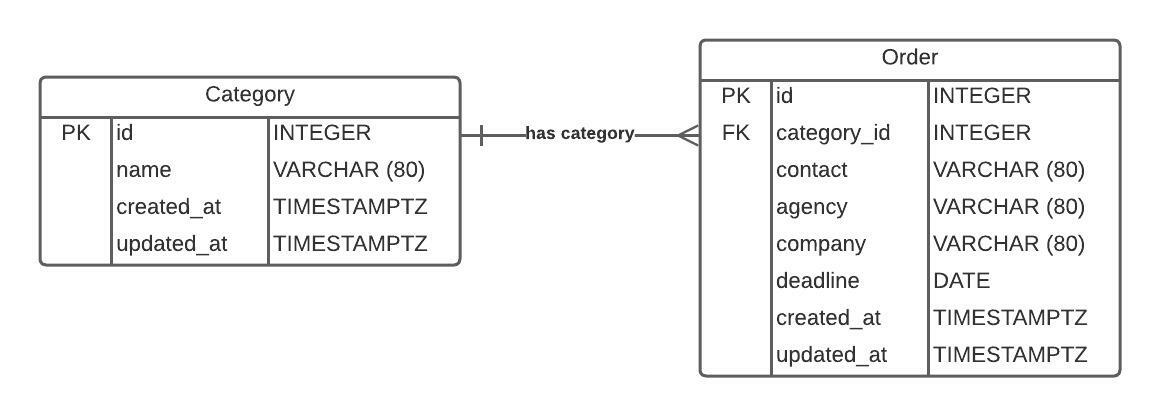
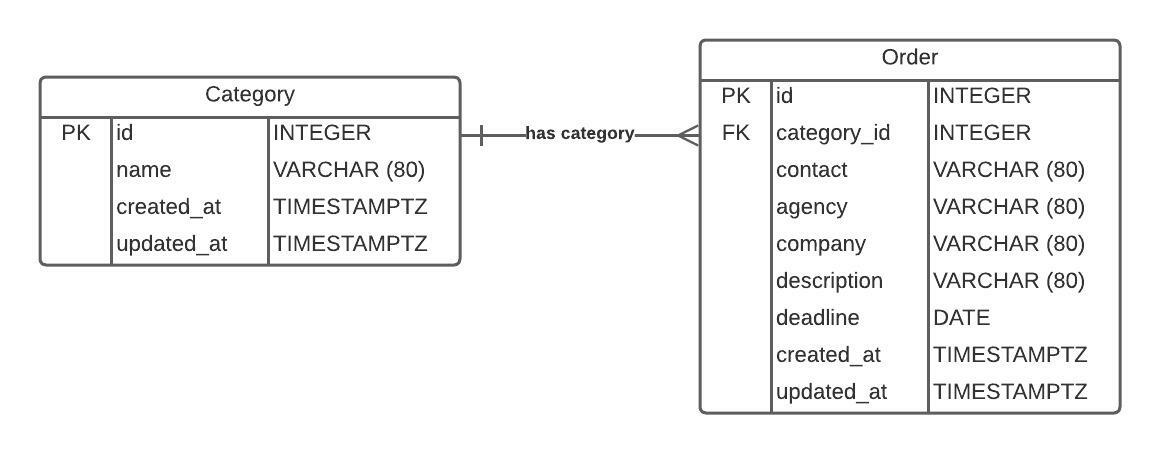
feat(docs): finish readme

Changed region(s): [[0.031, 0.0625, 0.9621, 0.9375], [0.6517, 0.75, 0.7759, 0.8125]]

diff --git a/README.md b/README.md
@@ -29,6 +29,7 @@ NPM Version: `17.18.1`
   - [Frontend](#frontend-2)
 - [Considerações em Relação ao Projeto](#considerações-em-relação-ao-projeto)
 - [Como eu faria para adicionar autenticação ao projeto?](#como-eu-faria-para-adicionar-autenticação-ao-projeto)
+- [Lidando com Armazenamento de Outras Informações no Backend](#lidando-com-armazenamento-de-outras-informações-no-backend)
 
 ## Sobre o projeto
 
@@ -232,7 +233,7 @@ Primeiramente, em `backend/settings`, settar `DEBUG` para `false`, além de muda
 
 ### Frontend
 
-Esse projeto foi criado com a ferramenta Vite. Caso queira saber porque eu e alguns outros devs escolhem o Vite ao invés do create-react-app ou webpack+babel configurados manualmente, apesar de já ter usado todas essas, recomendo essa [leitura](https://semaphoreci.com/blog/vite#:~:text=Unlike%20CRA%2C%20Vite%20does%20not,improve%20development%20and%20build%20time.). Utilizei o template desse (link)[https://github.com/igdev116/vite-react-ts-eslint-prettier.git], que cria um projeto pré configurado com Vite + React + TypeScript + Eslint + Prettier. Primeiramente precisamos buildar a aplicação react, que vai transpilar o typescript em javascript e depois tudo em um "javascript puro", empacotando numa pasta build. Essa pasta build deve ser levada (deploy) para o ambiente de produção, seja qual for, e executada por alguma ferramenta, como um nginx. Vale ressaltar que o Vite carrega variáveis de ambiente de arquivos com nomes relacionados a ambientes de desenvolvimento e produção automaticamente, dependendo da forma que a aplicação é executada. No momento, estou puxando o endereço base da API do arquivo `.env.development` na pasta `frontend/config`. Um arquivo de produção `.env.production` pode ser criado, com a variável `VITE_BACKEND_BASE_URL` apontando para o endereço host do backend em produção. Todas as variáveis de ambiente devem começar com `VITE_`.
+Esse projeto foi criado com a ferramenta Vite. Caso queira saber porque eu e alguns outros devs escolhem o Vite ao invés do create-react-app ou webpack+babel configurados manualmente, apesar de já ter usado todas essas, recomendo essa [leitura](https://semaphoreci.com/blog/vite#:~:text=Unlike%20CRA%2C%20Vite%20does%20not,improve%20development%20and%20build%20time.). Utilizei o template desse [link](https://github.com/igdev116/vite-react-ts-eslint-prettier.git), que cria um projeto pré configurado com Vite + React + TypeScript + Eslint + Prettier. Primeiramente precisamos buildar a aplicação react, que vai transpilar o typescript em javascript e depois tudo em um "javascript puro", empacotando numa pasta build. Essa pasta build deve ser levada (deploy) para o ambiente de produção, seja qual for, e executada por alguma ferramenta, como um nginx. Vale ressaltar que o Vite carrega variáveis de ambiente de arquivos com nomes relacionados a ambientes de desenvolvimento e produção automaticamente, dependendo da forma que a aplicação é executada. No momento, estou puxando o endereço base da API do arquivo `.env.development` na pasta `frontend/config`. Um arquivo de produção `.env.production` pode ser criado, com a variável `VITE_BACKEND_BASE_URL` apontando para o endereço host do backend em produção. Todas as variáveis de ambiente devem começar com `VITE_`.
 
 ## Considerações em Relação ao Projeto
 
@@ -240,7 +241,20 @@ Esse projeto foi criado com a ferramenta Vite. Caso queira saber porque eu e alg
 - Infelizmente, dado o tempo, não pude correr atrás de entender como realizar um table join, sem trocar ModelViewSet por outro tipo de View e ter que definir cada método, no momento de listar os orders, o que faria com que a categoria chegasse ao frontend já descodificada, não só com id, mas também com o name. Como é necessário ter todas as categorias para listar no modal de gerar um novo order, tenho acesso à que id de categoria equivale a tal nome, então é substituído no lado do cliente mesmo, ao invés do servidor, o que não é ideal, mas garante a funcionalidade mesmo assim.
 - No backend a paginação está ativada no backend e o frontend consegue lidar com isso, porém não tive tempo, por alguns motivos, durante a semana do desafio, de fazer com que um fetch novo com a próxima página da paginação fosse feito assim que o limite de 10 registros fosse atingido no frontend. Seria uma pequena adição, mas atrasaria a escrita desse documento e optei por não fazer.
 - Tenho completa consciencia de que arquivos com secrets e coisas relacionadas não devem ser incluídos em repositórios de controle de versão por questões de segurança, mas ignorei mesmo assim pelo contexto e tempo do desafio, além de por ter o .env no frontend, agiliza o processo de instalar e executar a aplicação caso queira ser testada pela parte avaliadora.
+- Gostaria de ter implementado mask no input de telefone, mas não tive tempo.
 
 ## Como eu faria para adicionar autenticação ao projeto?
 
 O frontend já está praticamente prepardo para autenticação, só precisando criar páginas de login e signup, mas está desabilitada dado que o backend não está pronto para comportar autenticação. Primeiro faria com que o backend conseguisse gerar tokens JWT e enviar para o frontend, disponibilizando uma rota com nome `/sessions/` ou algo próximo disso. Depois, fazer com que as rotas quem precisam de autenticação consigam obter o token que será enviado no header de cada requisição e checar se ele é um token válido, permitindo ou não o acesso a rota. O frontend se preocupa em autenticar na página de login e guardar esse token ou não no localStorage, para ser recuperada em acessos futuros à página até que o token expire, sem ter que logar. Indepente de salvar ou não no localStorage, as informações do usuário podem ser salvas no contexto de autenticação do frontend e assim realizar redirecionamentos caso o usuário entre em uma página de permissão elevada sem estar loggado. Também iria atrás de outra solução, já que foi descoberto a um tempo que o localStorage não é tão seguro quanto se achava para manter informações de valor/permissão importantes.
+
+## Lidando com Armazenamento de Outras Informações no Backend
+
+Essa seção serve para responder as questões levantadas sobre lidar com armazenamento de informações de agência, companhia e contato e que mudanças precisam ser feitas na API para se adaptar a mudança. Fico meio confuso em relação ao relacionamento de algumas dessas entidades, então proponho um modelo simples onde cada um desses componentes se torna uma entidade e se relaciona com order. O diagrama abaixo ilustra minha proposta:
+
+<div align="center">
+
+![Diagrama ER](./Refera%20Challenge%20Diagrama%20ER-arbitrary%20question.jpeg?raw=true)
+
+</div>
+
+Pela parte do backend, criaria um app django para cada entidade, atualizaria o relacionamento na tabela de orders e criaria um CRUD com rotas para cada entidade, já que essas poderiam ser registradas possivelmente até pelo frontend. Obs.: ContactEntity é um nome genérico pois não sei se faria parte da entidade usuário do sistema, ou se seria apenas contato a parte, provavelmente associado a company ou realStateAgency, então, na dúvida, deixei como entidade separada.
